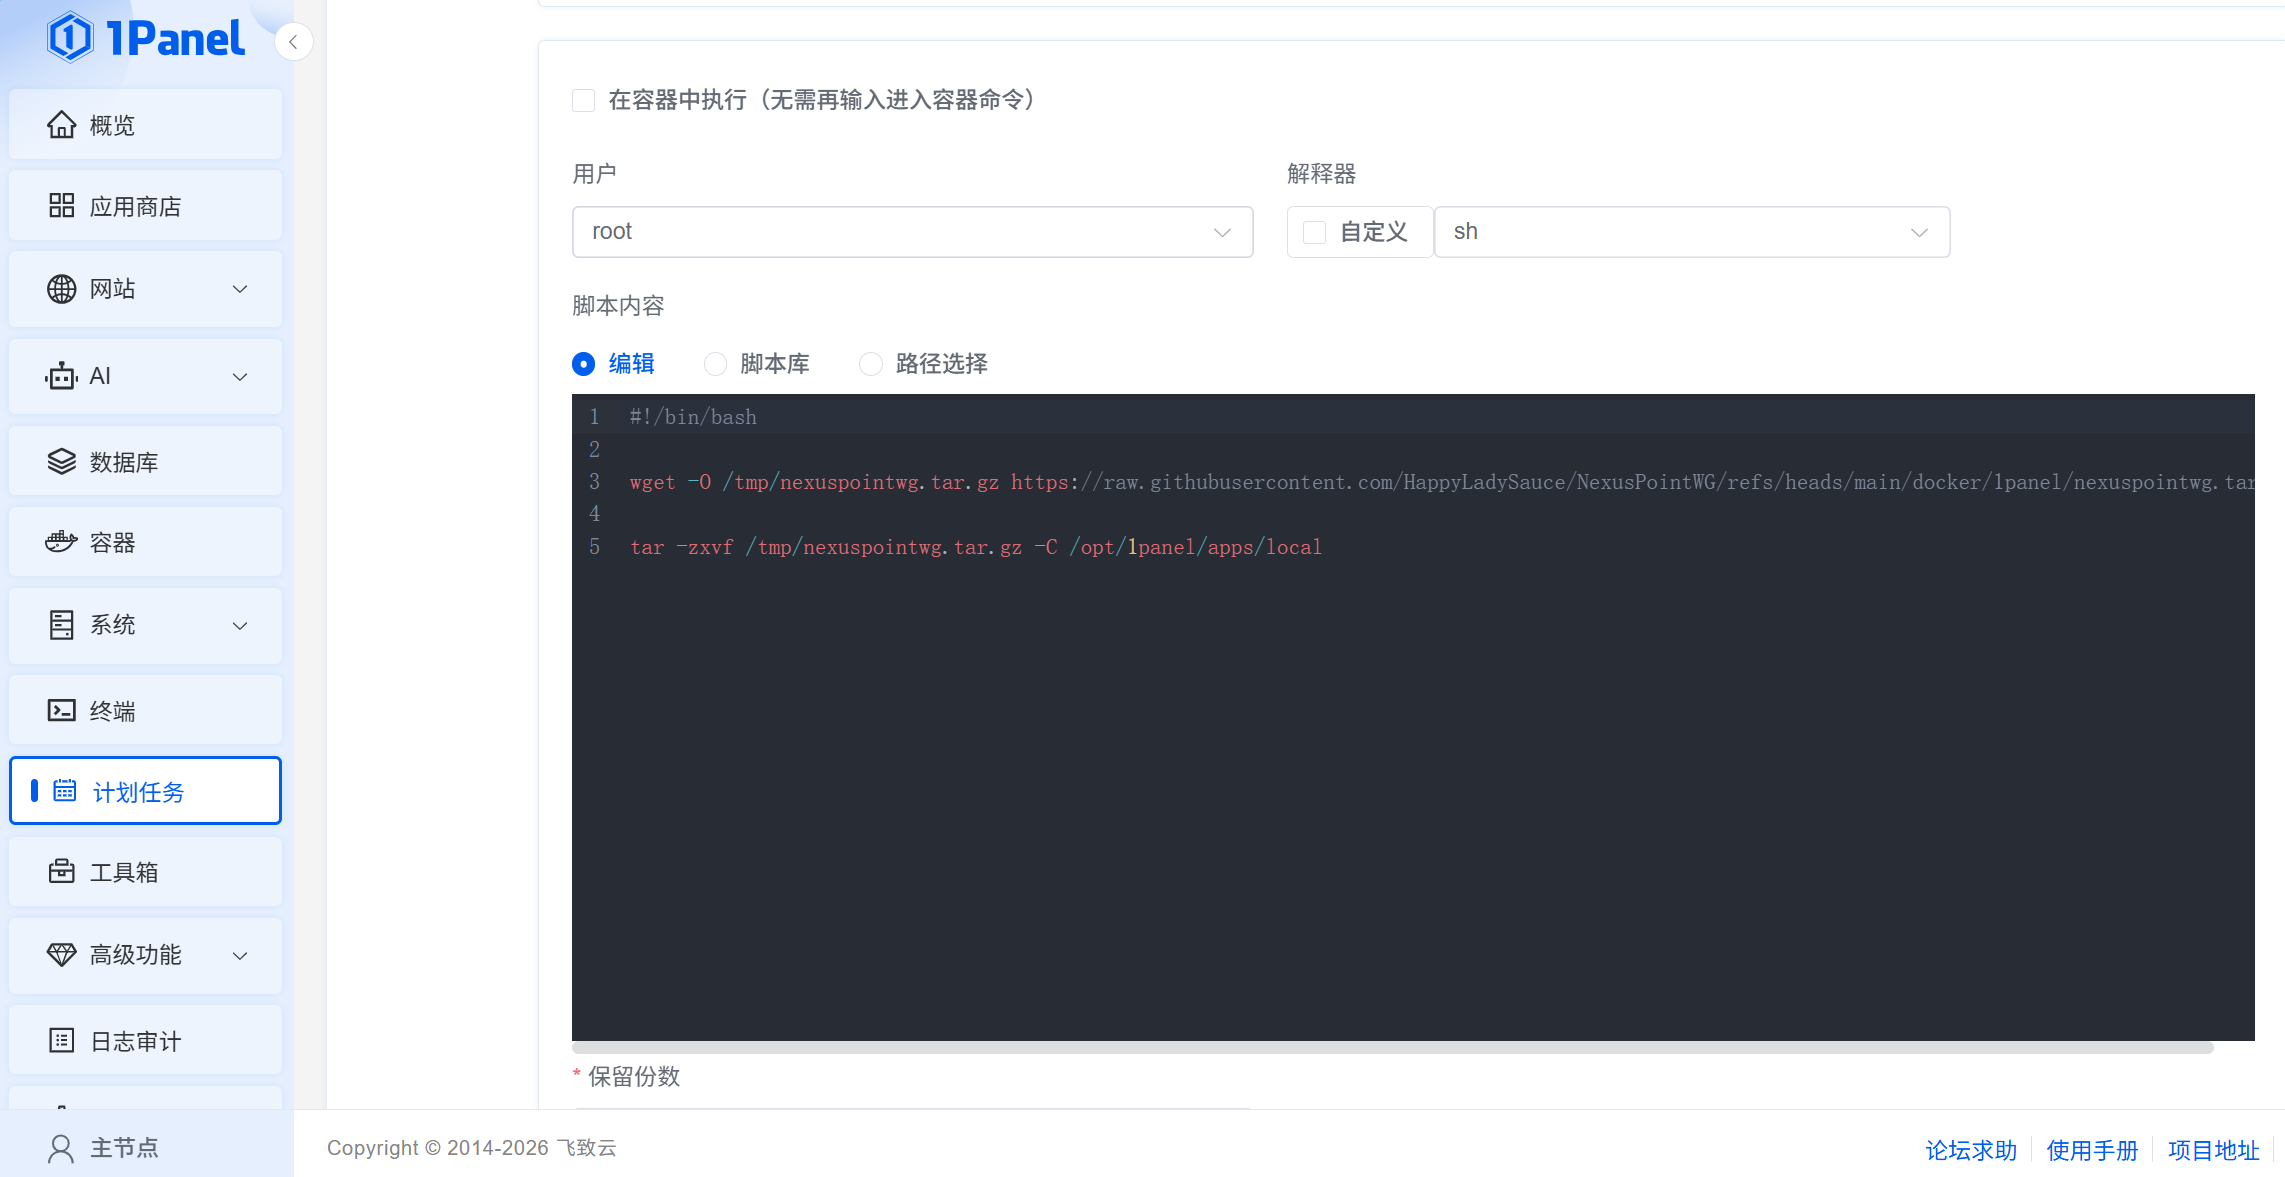
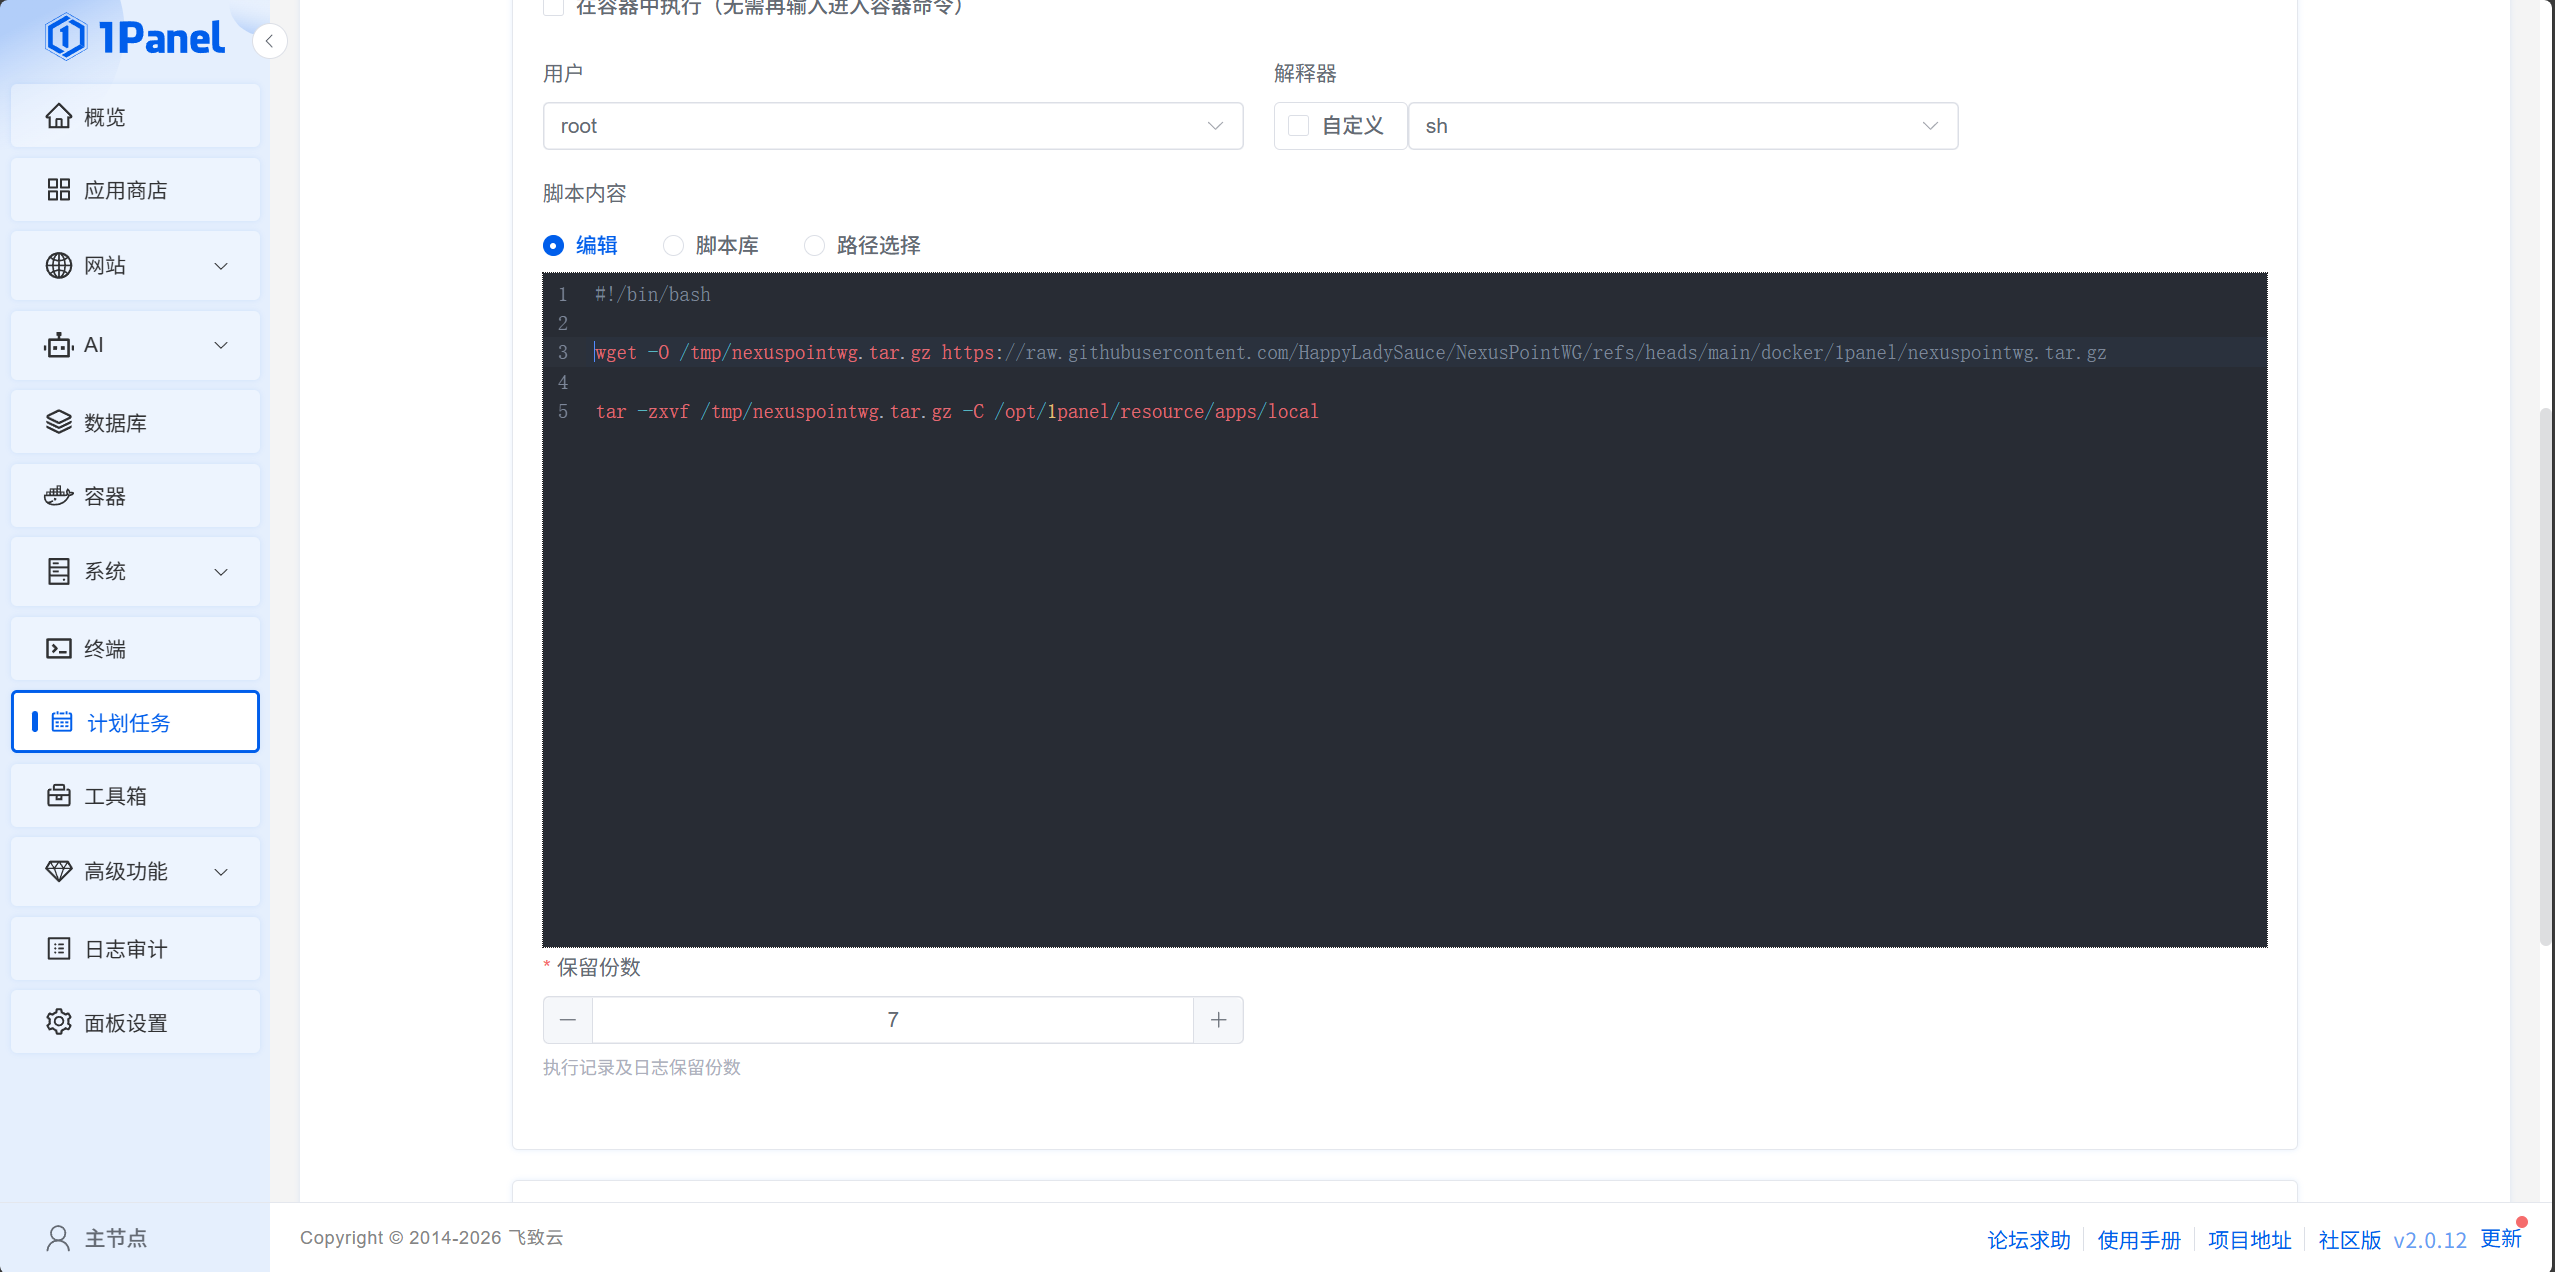
fix(docs): update installation paths in 1Panel documentation and scripts
- Changed extraction path for NexusPointWG tarball from `/opt/1panel/apps/local` to `/opt/1panel/resource/apps/local` in the install script and related documentation.
- Ensured consistency across installation instructions and scripts to reflect the new directory structure.

diff --git a/docs/install/1panel.md b/docs/install/1panel.md
@@ -19,7 +19,7 @@
    ```bash
    wget -O /tmp/nexuspointwg.tar.gz https://raw.githubusercontent.com/HappyLadySauce/NexusPointWG/refs/heads/main/docker/1panel/nexuspointwg.tar.gz
    
-   tar -zxvf /tmp/nexuspointwg.tar.gz -C /opt/1panel/apps/local
+   tar -zxvf /tmp/nexuspointwg.tar.gz -C /opt/1panel/resource/apps/local
    ```
 
    > **注意**：如果 GitHub 访问受限，可以手动下载 `docker/1panel/nexuspointwg.tar.gz` 文件并上传到服务器，然后执行解压命令。
@@ -72,7 +72,7 @@
 
    ```bash
    # 将文件上传到服务器后，解压到 1Panel 应用目录
-   tar -zxvf nexuspointwg.tar.gz -C /opt/1panel/apps/local
+   tar -zxvf nexuspointwg.tar.gz -C /opt/1panel/resource/apps/local
    ```
 
 3. **后续步骤**
@@ -155,7 +155,7 @@
 ### 方式二：手动升级
 
 1. 下载新版本的应用文件
-2. 解压到 `/opt/1panel/apps/local` 目录
+2. 解压到 `/opt/1panel/resource/apps/local` 目录
 3. 在 1Panel 中更新应用商店
 4. 在应用详情页面点击"升级"
 
